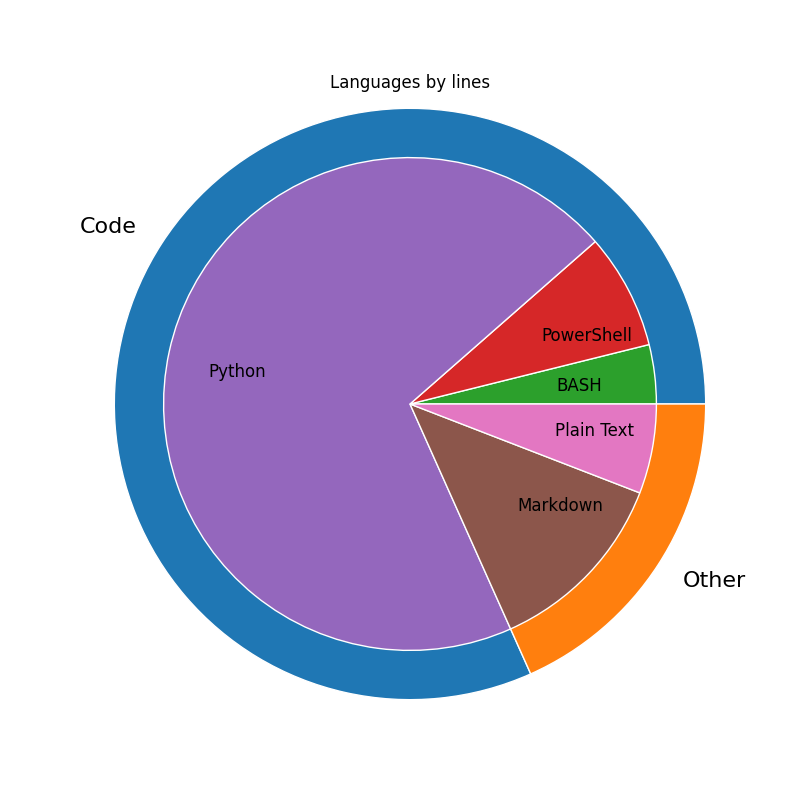
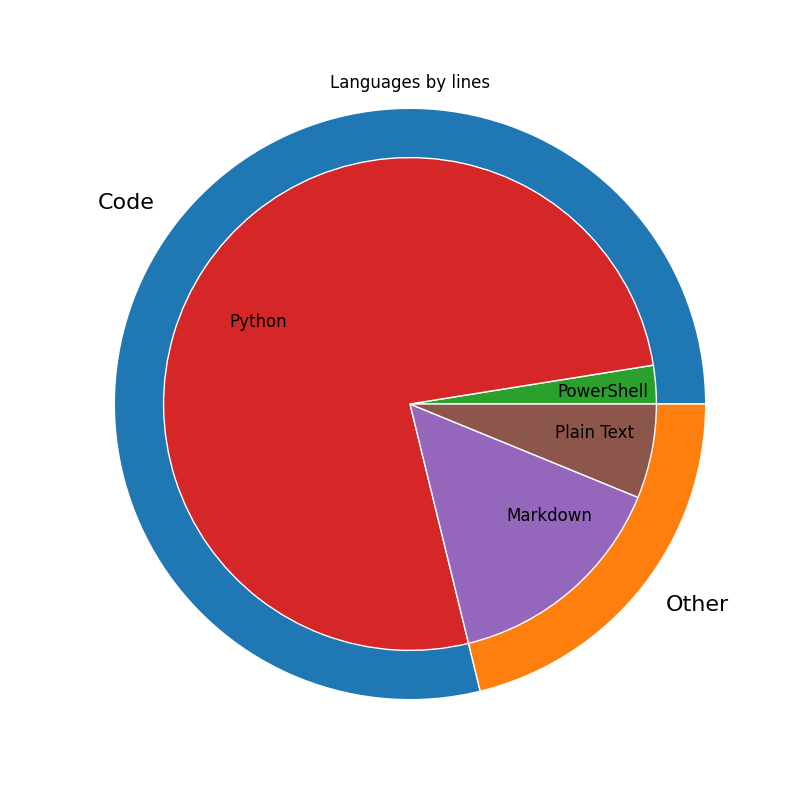
Update linecounter to count logging as output line.

Changed region(s): [[0.1875, 0.1875, 0.8438, 0.875], [0.8438, 0.7188, 0.9375, 0.7812], [0.0938, 0.25, 0.1875, 0.3125]]

diff --git a/line_counter.py b/line_counter.py
@@ -144,8 +144,18 @@ class Language():
                     if not(line.startswith(self.comment_start) and self.comment_start!="") and not(is_block_comment):
                         self.lines_uncommented +=1
 
-                        if "print(" in line or "Write-Output" in line or line.startswith("echo "):
+                        if (   "print(" in line 
+                            or "Write-Output" in line 
+                            or line.strip().startswith("echo ") 
+                            or line.strip().startswith("logging.debug")
+                            or line.strip().startswith("logging.info")
+                            or line.strip().startswith("logging.warn")
+                            or line.strip().startswith("logging.error")
+                            or line.strip().startswith("logging.critical")
+                            or line.strip().startswith("logging.exception")
+                            ):
                             self.lines_output+=1
+                        
                         if " if " in line or line.startswith("if "):
                             self.lines_if+=1
                         if " for " in line or line.startswith("for "):
